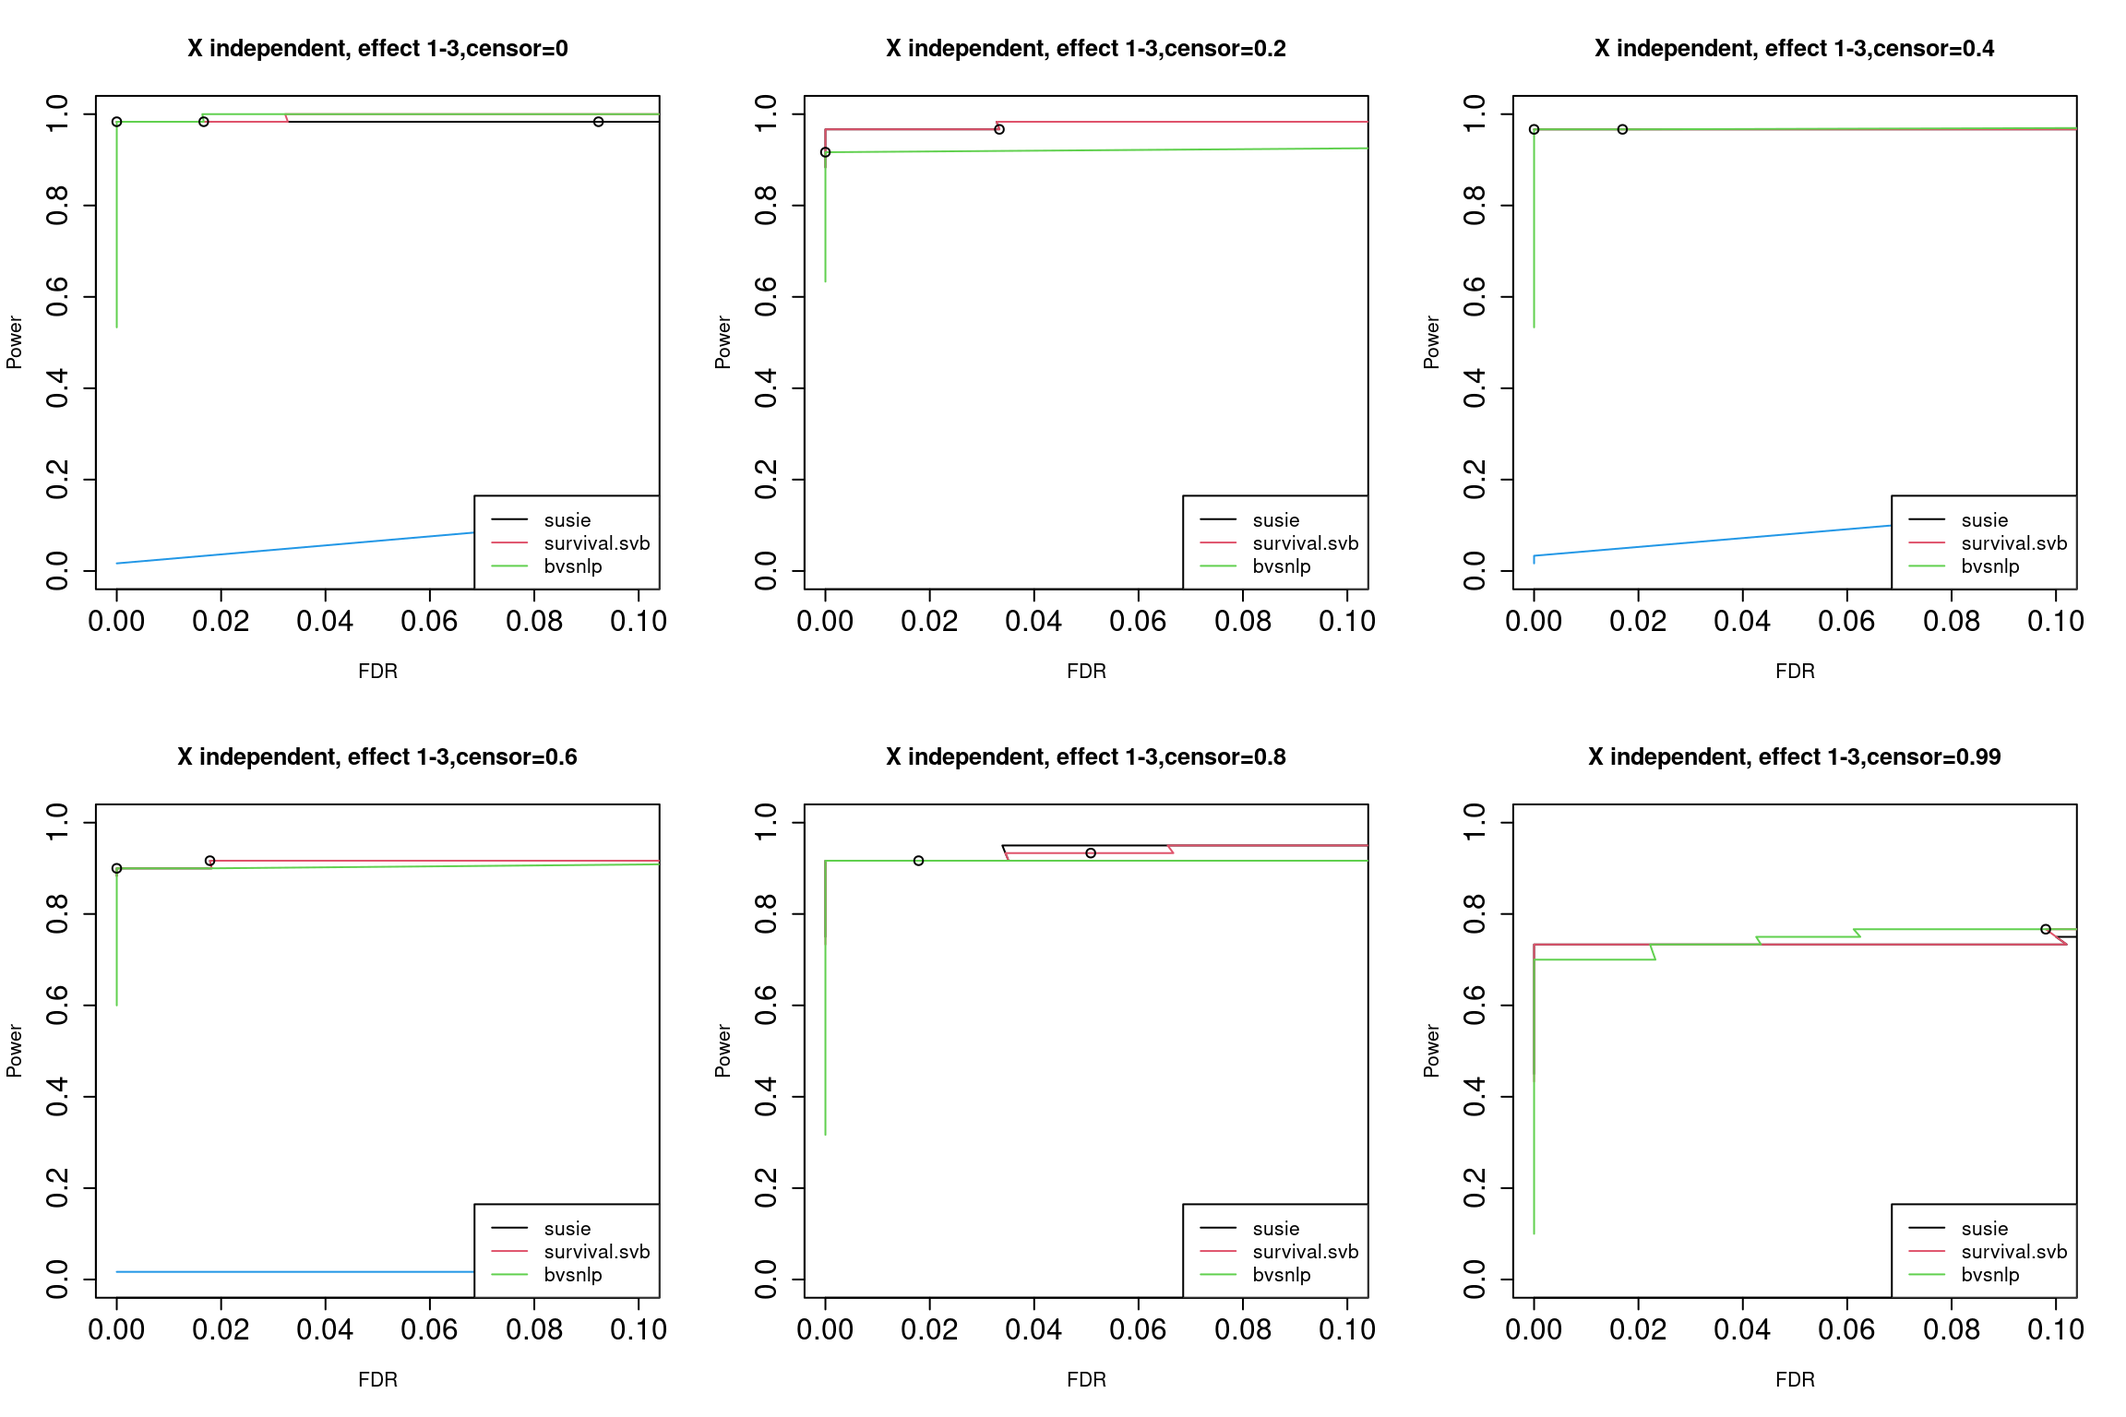
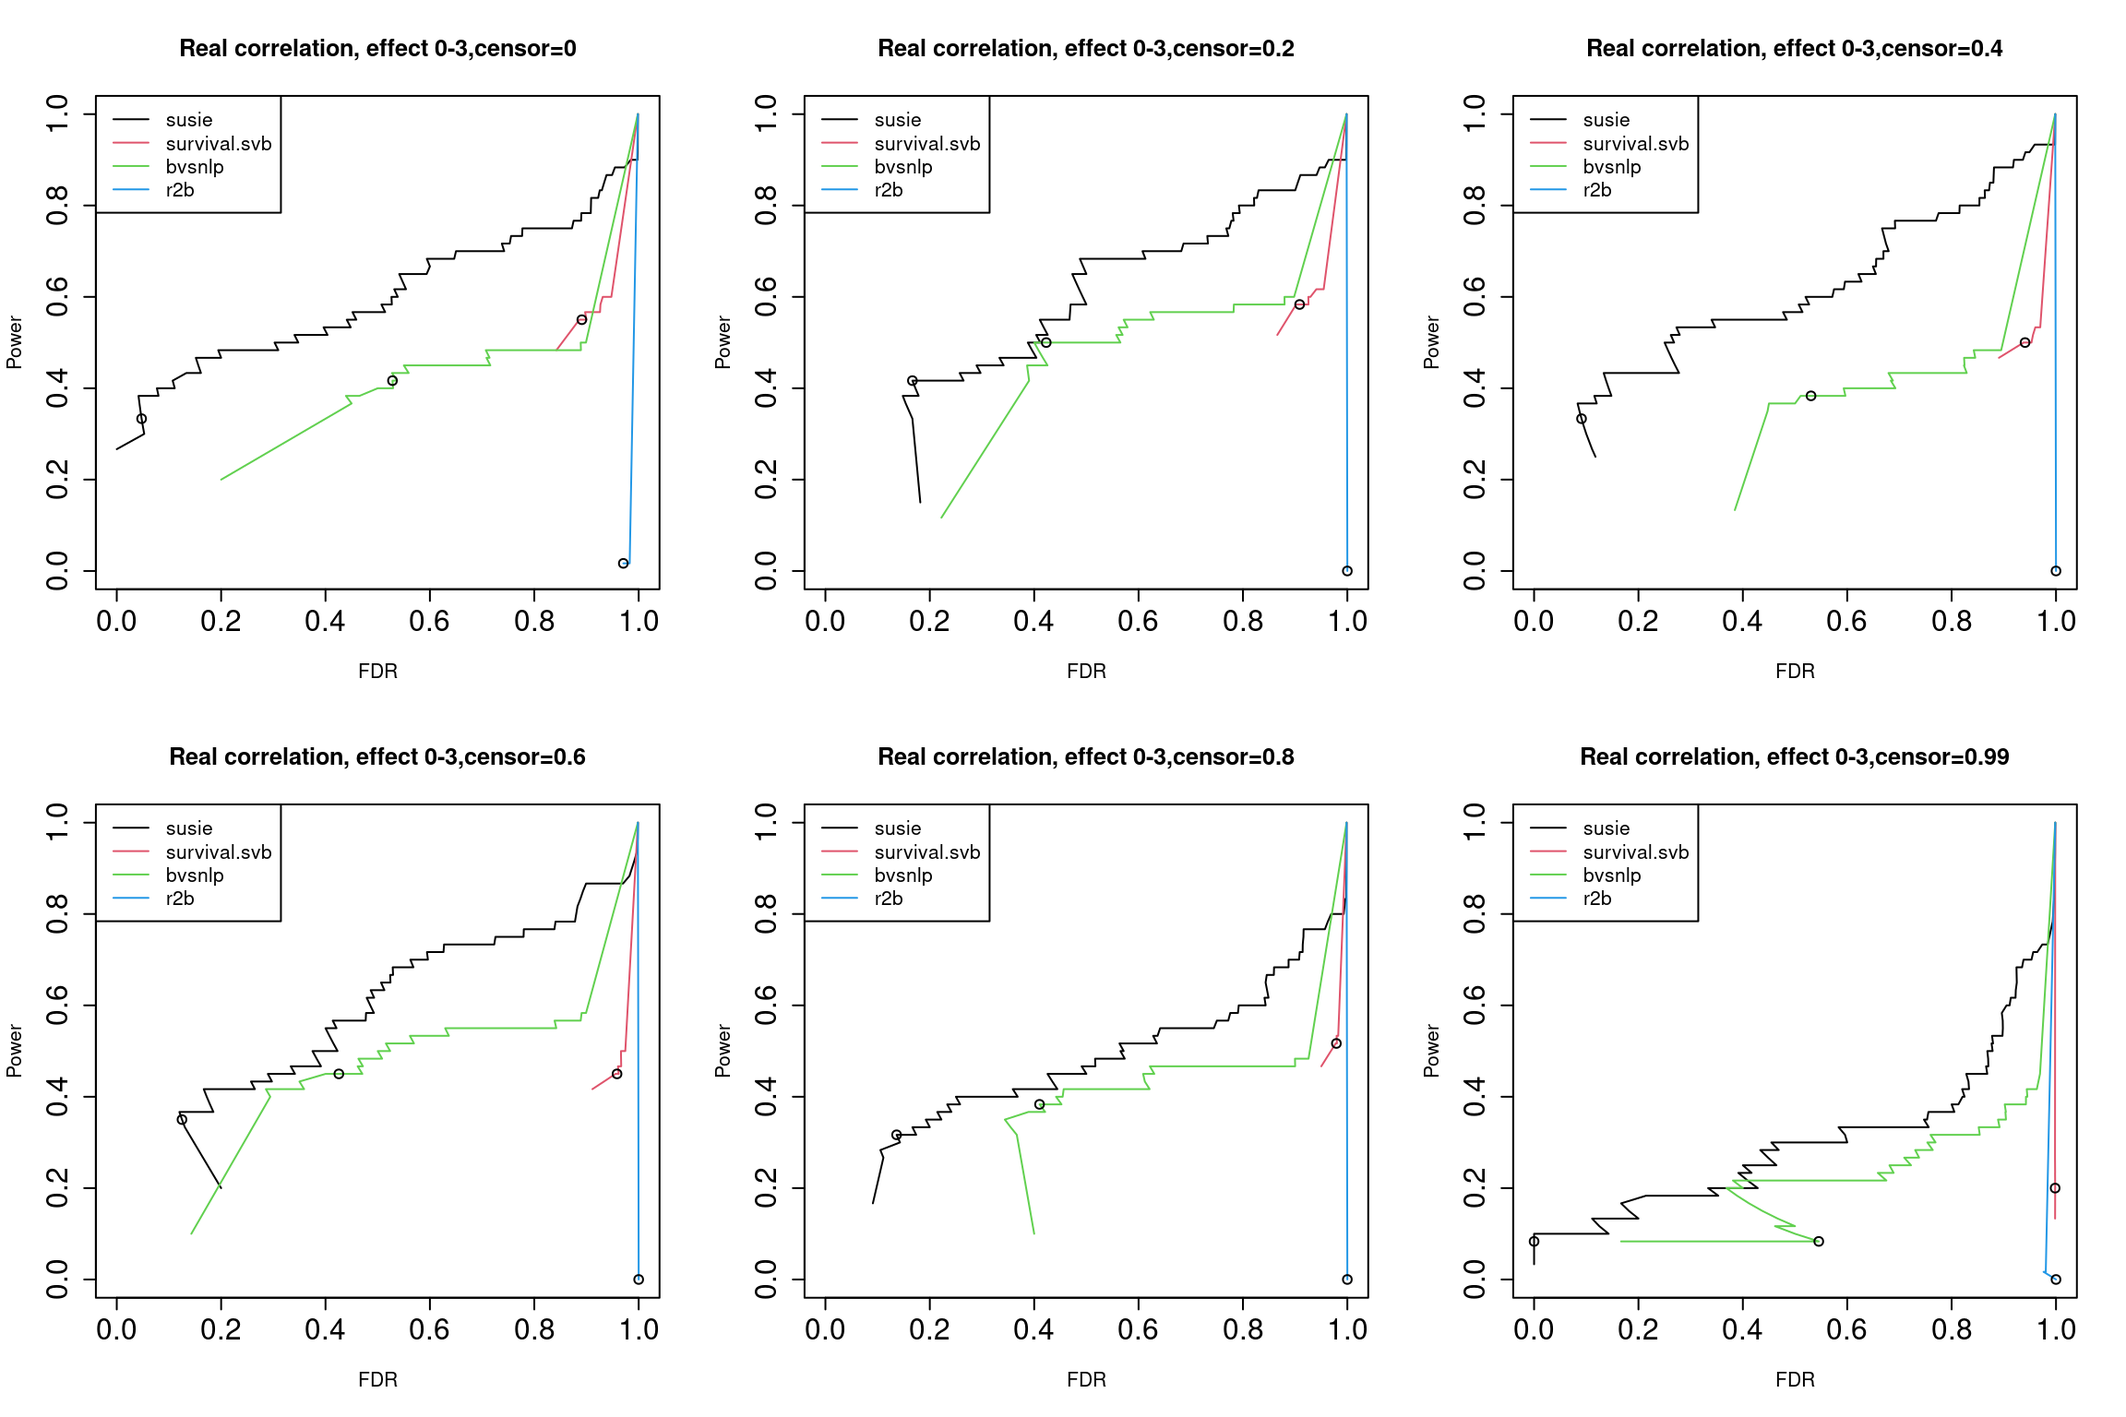
Build site.

diff --git a/docs/compare_method_large_sample.html b/docs/compare_method_large_sample.html
@@ -15,8 +15,8 @@
 
 <title>Power vs. fdr: version 4</title>
 
-<script src="site_libs/header-attrs-2.9/header-attrs.js"></script>
-<script src="site_libs/jquery-1.11.3/jquery.min.js"></script>
+<script src="site_libs/header-attrs-2.14/header-attrs.js"></script>
+<script src="site_libs/jquery-3.6.0/jquery-3.6.0.min.js"></script>
 <meta name="viewport" content="width=device-width, initial-scale=1" />
 <link href="site_libs/bootstrap-3.3.5/css/cosmo.min.css" rel="stylesheet" />
 <script src="site_libs/bootstrap-3.3.5/js/bootstrap.min.js"></script>
@@ -40,7 +40,7 @@
 <link href="site_libs/font-awesome-5.1.0/css/all.css" rel="stylesheet" />
 <link href="site_libs/font-awesome-5.1.0/css/v4-shims.css" rel="stylesheet" />
 
-<link rel="icon" href="https://github.com/workflowr/workflowr-assets/raw/master/img/reproducible.png">
+<link rel="icon" href="https://github.com/workflowr/workflowr-assets/raw/main/img/reproducible.png">
 <!-- Add a small amount of space between sections. -->
 <style type="text/css">
 div.section {
@@ -77,6 +77,7 @@ if (window.hljs) {
 
 
 
+
 <style type = "text/css">
 .main-container {
   max-width: 940px;
@@ -97,6 +98,9 @@ button.code-folding-btn:focus {
 }
 summary {
   display: list-item;
+}
+details > summary > p:only-child {
+  display: inline;
 }
 pre code {
   padding: 0;
@@ -322,7 +326,7 @@ div.tocify {
 <div class="navbar navbar-default  navbar-fixed-top" role="navigation">
   <div class="container">
     <div class="navbar-header">
-      <button type="button" class="navbar-toggle collapsed" data-toggle="collapse" data-target="#navbar">
+      <button type="button" class="navbar-toggle collapsed" data-toggle="collapse" data-bs-toggle="collapse" data-target="#navbar" data-bs-target="#navbar">
         <span class="icon-bar"></span>
         <span class="icon-bar"></span>
         <span class="icon-bar"></span>
@@ -389,7 +393,7 @@ class="glyphicon glyphicon-ok text-success" aria-hidden="true"></span>
 <div class="tab-content">
 <div id="summary" class="tab-pane fade in active">
 <p>
-<strong>Last updated:</strong> 2024-01-29
+<strong>Last updated:</strong> 2024-01-30
 </p>
 <p>
 <strong>Checks:</strong> <span
@@ -404,10 +408,10 @@ title="This is the local directory in which the code in this file was executed."
 </span>
 </p>
 <p>
-This reproducible <a href="http://rmarkdown.rstudio.com">R Markdown</a>
+This reproducible <a href="https://rmarkdown.rstudio.com">R Markdown</a>
 analysis was created with <a
-  href="https://github.com/jdblischak/workflowr">workflowr</a> (version
-1.6.2). The <em>Checks</em> tab describes the reproducibility checks
+  href="https://github.com/workflowr/workflowr">workflowr</a> (version
+1.7.0). The <em>Checks</em> tab describes the reproducibility checks
 that were applied when the results were created. The <em>Past
 versions</em> tab lists the development history.
 </p>
@@ -520,15 +524,15 @@ project makes it easier to run your code on other machines.</p>
 <div class="panel panel-default">
 <div class="panel-heading">
 <p class="panel-title">
-<a data-toggle="collapse" data-parent="#workflowr-checks" href="#strongRepositoryversionstrongahrefhttpsgithubcomyunqiyang0215survivalsusietree6130e8494e0ea21b106477a52bed111a96aa4b18targetblank6130e84a">
+<a data-toggle="collapse" data-parent="#workflowr-checks" href="#strongRepositoryversionstrongahrefhttpsgithubcomyunqiyang0215survivalsusietree5a62ce3458f5666fe5ea16f45d36754736cff3c5targetblank5a62ce3a">
 <span class="glyphicon glyphicon-ok text-success"
 aria-hidden="true"></span> <strong>Repository version:</strong>
-<a href="https://github.com/yunqiyang0215/survival-susie/tree/6130e8494e0ea21b106477a52bed111a96aa4b18" target="_blank">6130e84</a>
+<a href="https://github.com/yunqiyang0215/survival-susie/tree/5a62ce3458f5666fe5ea16f45d36754736cff3c5" target="_blank">5a62ce3</a>
 </a>
 </p>
 </div>
 <div
[2 lines of base64/hex data omitted]
 class="panel-collapse collapse">
 <div class="panel-body">
 <p>
@@ -538,7 +542,7 @@ reproducibility.
 </p>
 <p>
 The results in this page were generated with repository version
-<a href="https://github.com/yunqiyang0215/survival-susie/tree/6130e8494e0ea21b106477a52bed111a96aa4b18" target="_blank">6130e84</a>.
+<a href="https://github.com/yunqiyang0215/survival-susie/tree/5a62ce3458f5666fe5ea16f45d36754736cff3c5" target="_blank">5a62ce3</a>.
 See the <em>Past versions</em> tab to see a history of the changes made
 to the R Markdown and HTML files.
 </p>
@@ -557,6 +561,9 @@ Ignored files:
 
 Untracked files:
     Untracked:  analysis/dat_analysis_cancer_subtype.Rmd
+
+Unstaged changes:
+    Modified:   analysis/index.Rmd
 
 </code></pre>
 <p>
@@ -603,6 +610,40 @@ Message
 </tr>
 </thead>
 <tbody>
+<tr>
+<td>
+Rmd
+</td>
+<td>
+<a href="https://github.com/yunqiyang0215/survival-susie/blob/5a62ce3458f5666fe5ea16f45d36754736cff3c5/analysis/compare_method_large_sample.Rmd" target="_blank">5a62ce3</a>
+</td>
+<td>
+yunqi yang
+</td>
+<td>
+2024-01-30
+</td>
+<td>
+wflow_publish("analysis/compare_method_large_sample.Rmd")
+</td>
+</tr>
+<tr>
+<td>
+html
+</td>
+<td>
+<a href="https://rawcdn.githack.com/yunqiyang0215/survival-susie/fa83bf36129f87aae6e0afac0d055ada3d66e5a3/docs/compare_method_large_sample.html" target="_blank">fa83bf3</a>
+</td>
+<td>
+yunqi yang
+</td>
+<td>
+2024-01-29
+</td>
+<td>
+Build site.
+</td>
+</tr>
 <tr>
 <td>
 Rmd
@@ -663,21 +704,23 @@ wflow_publish("analysis/compare_method_large_sample.Rmd")
 </div>
 <div id="description" class="section level3">
 <h3>Description:</h3>
-<p>Version 4 simulation results, comparing power vs. FDR across 3
-methods. I vary the threshold for claiming effect variables based on
-marginal PIP value.</p>
-<p><strong>Difference between v3 and v4 simulation</strong>:</p>
+<p>Comparing power vs. FDR across 4 methods. I vary the threshold for
+claiming effect variables based on marginal PIP value.</p>
+</div>
+<div id="data-details" class="section level3">
+<h3>Data details:</h3>
 <ol style="list-style-type: decimal">
-<li><p>Only susie has been changed, not the other two methods.</p></li>
-<li><p>Used corrected ABF instead of original Wakefeld ABF.</p></li>
-<li><p>Computed susie credible sets.</p></li>
+<li><p><span class="math inline">\(n=50000\)</span> and <span
+class="math inline">\(p=1000\)</span>.</p></li>
+<li><p>SNPs with minor allele frequency &lt; 1% were removed.</p></li>
 </ol>
-<p><strong>Conclusion</strong>:</p>
+</div>
+<div id="fitting-details" class="section level3">
+<h3>Fitting details:</h3>
 <ol style="list-style-type: decimal">
-<li><p>After using corrected ABF, susie performance is improved. Now
-it’s better than bvsnlp almost all the time.</p></li>
-<li><p>Power of the credible sets and coverage of credible sets also
-look fine.</p></li>
+<li><p>SuSIE with laplace BF.</p></li>
+<li><p>SuSIE, survival svb runs for 10 iterations. The other 2 methods
+with 30 iterations.</p></li>
 </ol>
 <pre class="r"><code>
 calculate_tpr_vs_fdr &lt;- function(pip, is_effect, ts){
@@ -727,12 +770,10 @@ get_cs_effect = function(dat_indx, p){
 }</code></pre>
 <pre class="r"><code>
 susie = readRDS(&quot;/project2/mstephens/yunqiyang/surv-susie/dsc202401/susie.rds&quot;)
-susie.rss = readRDS(&quot;/project2/mstephens/yunqiyang/surv-susie/dsc202401/susie_rss.rds&quot;)
-susie.rss.varY = readRDS(&quot;/project2/mstephens/yunqiyang/surv-susie/dsc202401/susie_rss_varY.rds&quot;)
 survsvb = readRDS(&quot;/project2/mstephens/yunqiyang/surv-susie/dsc202401/survsvb.rds&quot;)
 bvsnlp = readRDS(&quot;/project2/mstephens/yunqiyang/surv-susie/dsc202401/bvsnlp.rds&quot;)
-r2b = readRDS(&quot;/project2/mstephens/yunqiyang/surv-susie/dsc202401/r2b.rds&quot;)
-</code></pre>
+r2b = readRDS(&quot;/project2/mstephens/yunqiyang/surv-susie/dsc202401/r2b.rds&quot;)</code></pre>
+<pre class="r"><code>t95 = 951</code></pre>
 </div>
 <div id="results-using-real-correlation-structure-from-data"
 class="section level3">
@@ -759,20 +800,20 @@ for (i in 1:length(censor_lvl)){
   lines(res.bvsnlp[,2], res.bvsnlp[,1], type = &quot;l&quot;, col = 3)
   lines(res.r2b[,2], res.r2b[,1], type = &quot;l&quot;, col = 4)
   
-  points(res.susie[96,2], res.susie[96, 1])
-  points(res.svb[96,2], res.svb[96, 1])
-  points(res.bvsnlp[96,2], res.bvsnlp[96, 1])
-  points(res.r2b[96,2], res.r2b[96, 1])
+  points(res.susie[t95,2], res.susie[t95, 1])
+  points(res.svb[t95,2], res.svb[t95, 1])
+  points(res.bvsnlp[t95,2], res.bvsnlp[t95, 1])
+  points(res.r2b[t95,2], res.r2b[t95, 1])
   
   legend(&quot;topleft&quot;, legend = c(&quot;susie&quot;, &quot;survival.svb&quot;, &quot;bvsnlp&quot;, &quot;r2b&quot;), col = c(1,2,3, 4), lty = 1)
 }</code></pre>
-<p><img src="figure/compare_method_large_sample.Rmd/unnamed-chunk-3-1.png" width="1152" style="display: block; margin: auto;" /></p>
+<p><img src="figure/compare_method_large_sample.Rmd/unnamed-chunk-4-1.png" width="1152" style="display: block; margin: auto;" /></p>
 <p>
-<button type="button" class="btn btn-default btn-xs btn-workflowr btn-workflowr-fig" data-toggle="collapse" data-target="#fig-unnamed-chunk-3-1">
-Past versions of unnamed-chunk-3-1.png
+<button type="button" class="btn btn-default btn-xs btn-workflowr btn-workflowr-fig" data-toggle="collapse" data-target="#fig-unnamed-chunk-4-1">
+Past versions of unnamed-chunk-4-1.png
 </button>
 </p>
-<div id="fig-unnamed-chunk-3-1" class="collapse">
+<div id="fig-unnamed-chunk-4-1" class="collapse">
 <div class="table-responsive">
 <table class="table table-condensed table-hover">
 <thead>
@@ -791,7 +832,7 @@ Date
 <tbody>
 <tr>
 <td>
-<a href="https://github.com/yunqiyang0215/survival-susie/blob/1c713686457474f7b819398e604abd9653da767a/docs/figure/compare_method_large_sample.Rmd/unnamed-chunk-3-1.png" target="_blank">1c71368</a>
+<a href="https://github.com/yunqiyang0215/survival-susie/blob/1c713686457474f7b819398e604abd9653da767a/docs/figure/compare_method_large_sample.Rmd/unnamed-chunk-4-1.png" target="_blank">1c71368</a>
 </td>
 <td>
 yunqi yang
@@ -834,18 +875,18 @@ for (i in 1:length(censor_lvl)){
   lines(res.bvsnlp[,2], res.bvsnlp[,1], type = &quot;l&quot;, col = 3)
   lines(res.r2b[,2], res.r2b[,1], type = &quot;l&quot;, col = 4)
   
-  points(res.susie[96,2], res.susie[96, 1])
-  points(res.svb[96,2], res.svb[96, 1])
-  points(res.bvsnlp[96,2], res.bvsnlp[96, 1])
+  points(res.susie[t95,2], res.susie[t95, 1])
+  points(res.svb[t95,2], res.svb[t95, 1])
+  points(res.bvsnlp[t95,2], res.bvsnlp[t95, 1])
   legend(&quot;bottomright&quot;, legend = c(&quot;susie&quot;, &quot;survival.svb&quot;, &quot;bvsnlp&quot;), col = c(1,2,3), lty = 1)
 }</code></pre>
-<p><img src="figure/compare_method_large_sample.Rmd/unnamed-chunk-4-1.png" width="1152" style="display: block; margin: auto;" /></p>
+<p><img src="figure/compare_method_large_sample.Rmd/unnamed-chunk-5-1.png" width="1152" style="display: block; margin: auto;" /></p>
 <p>
-<button type="button" class="btn btn-default btn-xs btn-workflowr btn-workflowr-fig" data-toggle="collapse" data-target="#fig-unnamed-chunk-4-1">
-Past versions of unnamed-chunk-4-1.png
+<button type="button" class="btn btn-default btn-xs btn-workflowr btn-workflowr-fig" data-toggle="collapse" data-target="#fig-unnamed-chunk-5-1">
+Past versions of unnamed-chunk-5-1.png
 </button>
 </p>
-<div id="fig-unnamed-chunk-4-1" class="collapse">
+<div id="fig-unnamed-chunk-5-1" class="collapse">
 <div class="table-responsive">
 <table class="table table-condensed table-hover">
 <thead>
@@ -864,7 +905,7 @@ Date
 <tbody>
 <tr>
 <td>
-<a href="https://github.com/yunqiyang0215/survival-susie/blob/1c713686457474f7b819398e604abd9653da767a/docs/figure/compare_method_large_sample.Rmd/unnamed-chunk-4-1.png" target="_blank">1c71368</a>
+<a href="https://github.com/yunqiyang0215/survival-susie/blob/1c713686457474f7b819398e604abd9653da767a/docs/figure/compare_method_large_sample.Rmd/unnamed-chunk-5-1.png" target="_blank">1c71368</a>
 </td>
 <td>
 yunqi yang
@@ -908,49 +949,12 @@ for (i in 1:length(censor_lvl)){
   lines(res.bvsnlp[,2], res.bvsnlp[,1], type = &quot;l&quot;, col = 3)
   lines(res.r2b[,2], res.r2b[,1], type = &quot;l&quot;, col = 4)
   
-  points(res.susie[96,2], res.susie[96, 1])
-  points(res.svb[96,2], res.svb[96, 1])
-  points(res.bvsnlp[96,2], res.bvsnlp[96, 1])
+  points(res.susie[t95,2], res.susie[t95, 1])
+  points(res.svb[t95,2], res.svb[t95, 1])
+  points(res.bvsnlp[t95,2], res.bvsnlp[t95, 1])
   legend(&quot;bottomright&quot;, legend = c(&quot;susie&quot;, &quot;survival.svb&quot;, &quot;bvsnlp&quot;), col = c(1,2,3), lty = 1)
 }</code></pre>
-<p><img src="figure/compare_method_large_sample.Rmd/unnamed-chunk-5-1.png" width="960" style="display: block; margin: auto;" /></p>
-<p>
-<button type="button" class="btn btn-default btn-xs btn-workflowr btn-workflowr-fig" data-toggle="collapse" data-target="#fig-unnamed-chunk-5-1">
-Past versions of unnamed-chunk-5-1.png
-</button>
-</p>
-<div id="fig-unnamed-chunk-5-1" class="collapse">
-<div class="table-responsive">
-<table class="table table-condensed table-hover">
-<thead>
-<tr>
-<th>
-Version
-</th>
-<th>
-Author
-</th>
-<th>
-Date
-</th>
-</tr>
-</thead>
-<tbody>
-<tr>
-<td>
-<a href="https://github.com/yunqiyang0215/survival-susie/blob/1c713686457474f7b819398e604abd9653da767a/docs/figure/compare_method_large_sample.Rmd/unnamed-chunk-5-1.png" target="_blank">1c71368</a>
-</td>
-<td>
-yunqi yang
-</td>
-<td>
-2024-01-29
-</td>
-</tr>
-</tbody>
-</table>
-</div>
-</div>
+<p><img src="figure/compare_method_large_sample.Rmd/unnamed-chunk-6-1.png" width="960" style="display: block; margin: auto;" /></p>
 <p>The dots indicate PIP threshold = 0.95.</p>
 <br>
 <p>
@@ -961,13 +965,12 @@ Session information
 </p>
 <div id="workflowr-sessioninfo" class="collapse">
 <pre class="r"><code>sessionInfo()
-# R version 4.1.0 (2021-05-18)
+# R version 4.2.0 (2022-04-22)
 # Platform: x86_64-pc-linux-gnu (64-bit)
 # Running under: CentOS Linux 7 (Core)
 # 
 # Matrix products: default
-# BLAS:   /software/R-4.1.0-no-openblas-el7-x86_64/lib64/R/lib/libRblas.so
-# LAPACK: /software/R-4.1.0-no-openblas-el7-x86_64/lib64/R/lib/libRlapack.so
+# BLAS/LAPACK: /software/openblas-0.3.13-el7-x86_64/lib/libopenblas_haswellp-r0.3.13.so
 # 
 # locale:
 #  [1] LC_CTYPE=en_US.UTF-8 LC_NUMERIC=C         LC_TIME=C           
@@ -979,27 +982,28 @@ Session information
 # [1] stats     graphics  grDevices utils     datasets  methods   base     
 # 
 # other attached packages:
-# [1] workflowr_1.6.2
+# [1] workflowr_1.7.0
 # 
 # loaded via a namespace (and not attached):
-#  [1] Rcpp_1.0.6       highr_0.9        pillar_1.6.1     compiler_4.1.0  
-#  [5] bslib_0.4.2      later_1.2.0      jquerylib_0.1.4  git2r_0.28.0    
-#  [9] tools_4.1.0      digest_0.6.27    jsonlite_1.7.2   evaluate_0.14   
-# [13] lifecycle_1.0.3  tibble_3.1.2     pkgconfig_2.0.3  rlang_1.1.1     
-# [17] cli_3.6.1        rstudioapi_0.13  yaml_2.2.1       xfun_0.24       
-# [21] fastmap_1.1.0    stringr_1.4.0    knitr_1.33       fs_1.5.0        
-# [25] vctrs_0.3.8      sass_0.4.0       rprojroot_2.0.2  glue_1.4.2      
-# [29] R6_2.5.0         fansi_0.5.0      rmarkdown_2.9    magrittr_2.0.1  
-# [33] whisker_0.4      promises_1.2.0.1 ellipsis_0.3.2   htmltools_0.5.5 
-# [37] httpuv_1.6.1     utf8_1.2.1       stringi_1.6.2    cachem_1.0.5    
-# [41] crayon_1.4.1</code></pre>
+#  [1] Rcpp_1.0.8.3     highr_0.9        bslib_0.3.1      compiler_4.2.0  
+#  [5] pillar_1.7.0     later_1.3.0      git2r_0.30.1     jquerylib_0.1.4 
+#  [9] tools_4.2.0      getPass_0.2-2    digest_0.6.29    jsonlite_1.8.0  
+# [13] evaluate_0.15    tibble_3.1.7     lifecycle_1.0.1  pkgconfig_2.0.3 
+# [17] rlang_1.0.2      cli_3.3.0        rstudioapi_0.13  yaml_2.3.5      
+# [21] xfun_0.30        fastmap_1.1.0    httr_1.4.3       stringr_1.4.0   
+# [25] knitr_1.39       sass_0.4.1       fs_1.5.2         vctrs_0.4.1     
+# [29] rprojroot_2.0.3  glue_1.6.2       R6_2.5.1         processx_3.8.0  
+# [33] fansi_1.0.3      rmarkdown_2.14   callr_3.7.3      magrittr_2.0.3  
+# [37] whisker_0.4      ps_1.7.0         promises_1.2.0.1 htmltools_0.5.2 
+# [41] ellipsis_0.3.2   httpuv_1.6.5     utf8_1.2.2       stringi_1.7.6   
+# [45] crayon_1.5.1</code></pre>
 </div>
 </div>
 
 
 <!-- Adjust MathJax settings so that all math formulae are shown using
 TeX fonts only; see
-http://docs.mathjax.org/en/latest/configuration.html.  This will make
+https://docs.mathjax.org/en/latest/web/configuration.html. This will make
 the presentation more consistent at the cost of the webpage sometimes
 taking slightly longer to load. Note that this only works because the
 footer is added to webpages before the MathJax javascript. -->
